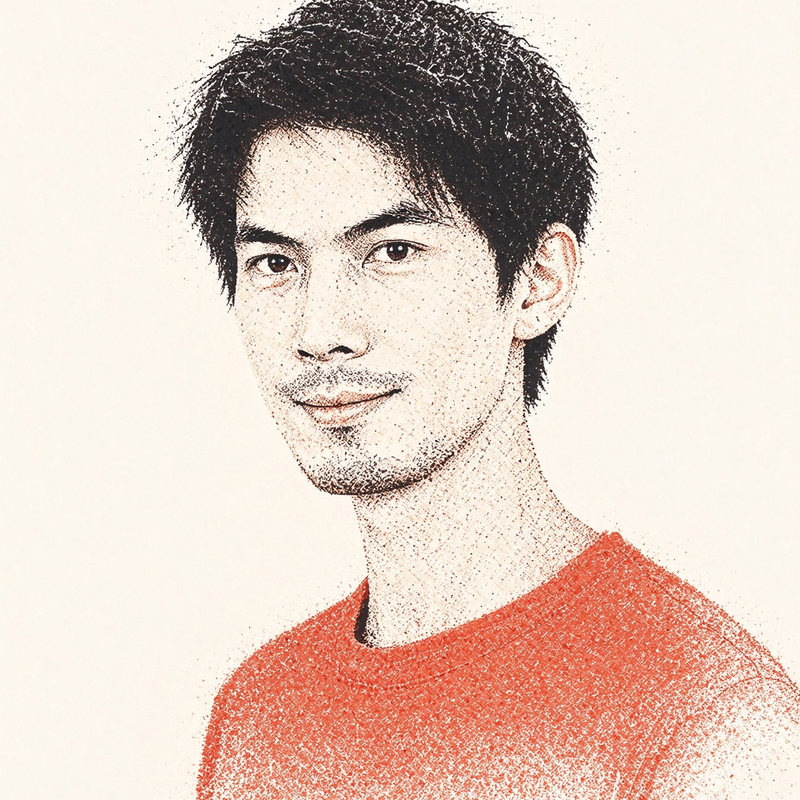
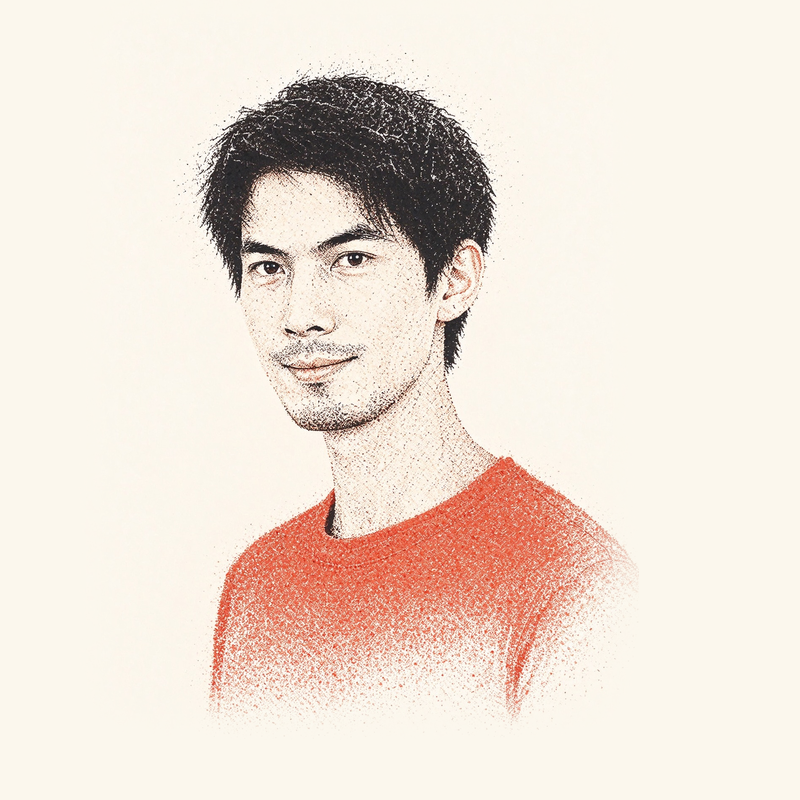
Lucas 改为 SVG 动态艺术字（渐变流动+逐字入场+金色光标）；新头像重新构图：整体人物居中、适当缩小；v=17

diff --git a/index.html b/index.html
@@ -22,7 +22,7 @@
 <link rel="preload" as="image" href="assets/avatar.webp" fetchpriority="high">
 <script>(function(){var t;try{t=localStorage.getItem("theme")}catch(e){}if(t!=="light"&&t!=="dark"){t=window.matchMedia&&matchMedia("(prefers-color-scheme: dark)").matches?"dark":"light"}document.documentElement.dataset.theme=t})();</script>
 <script>(function(){var l;try{l=localStorage.getItem("lang")}catch(e){}if(l!=="zh"&&l!=="en")l="en";document.documentElement.dataset.lang=l})();</script>
-<link rel="stylesheet" href="assets/style.css?v=16">
+<link rel="stylesheet" href="assets/style.css?v=17">
 </head>
 <body class="home">
 
@@ -55,7 +55,7 @@
           <svg class="sparkle sparkle-2" viewBox="0 0 24 24" aria-hidden="true"><path d="M12 0C12.9 6.9 17.1 11.1 24 12 17.1 12.9 12.9 17.1 12 24 11.1 17.1 6.9 12.9 0 12 6.9 11.1 11.1 6.9 12 0Z"/></svg>
           <svg class="sparkle sparkle-3" viewBox="0 0 24 24" aria-hidden="true"><path d="M12 0C12.9 6.9 17.1 11.1 24 12 17.1 12.9 12.9 17.1 12 24 11.1 17.1 6.9 12.9 0 12 6.9 11.1 11.1 6.9 12 0Z"/></svg>
         </figure>
-        <h1>Lucas</h1>
+        <h1 class="lucas-wrap"><svg class="lucas-svg" viewBox="0 0 320 104" role="img" aria-label="Lucas"><defs><linearGradient id="lucasGrad" x1="0" y1="0" x2="1" y2="0"><stop class="gs0" offset="0"/><stop class="gs1" offset="0.55"/><stop class="gs2" offset="1"/><animateTransform attributeName="gradientTransform" type="translate" values="-0.35 0; 0.35 0; -0.35 0" dur="6s" repeatCount="indefinite"/></linearGradient></defs><text class="lucas-text" x="26" y="80"><tspan class="lg d1">L</tspan><tspan class="lg d2">u</tspan><tspan class="lg d3">c</tspan><tspan class="lg d4">a</tspan><tspan class="lg d5">s</tspan><tspan class="lucas-cursor">_</tspan></text></svg></h1>
         <p class="role"><span class="en">Independent Developer</span><span class="zh">独立开发者</span></p>
         <div class="social" aria-label="GitHub, email, WeChat, support">
           <a class="soc" href="https://github.com/yjmm10" target="_blank" rel="noopener" aria-label="GitHub" title="GitHub"><svg viewBox="0 0 16 16" fill="currentColor" aria-hidden="true"><path d="M8 0C3.58 0 0 3.58 0 8c0 3.54 2.29 6.53 5.47 7.59.4.07.55-.17.55-.38 0-.19-.01-.82-.01-1.49-2.01.37-2.53-.49-2.69-.94-.09-.23-.48-.94-.82-1.13-.28-.15-.68-.52-.01-.53.63-.01 1.08.58 1.23.82.72 1.21 1.87.87 2.33.66.07-.52.28-.87.51-1.07-1.78-.2-3.64-.89-3.64-3.95 0-.87.31-1.59.82-2.15-.08-.2-.36-1.02.08-2.12 0 0 .67-.21 2.2.82.64-.18 1.32-.27 2-.27s1.36.09 2 .27c1.53-1.04 2.2-.82 2.2-.82.44 1.1.16 1.92.08 2.12.51.56.82 1.27.82 2.15 0 3.07-1.87 3.75-3.65 3.95.29.25.54.73.54 1.48 0 1.07-.01 1.93-.01 2.2 0 .21.15.46.55.38A8.01 8.01 0 0 0 16 8c0-4.42-3.58-8-8-8Z"/></svg></a>

diff --git a/assets/style.css b/assets/style.css
@@ -210,29 +210,25 @@ body.home section { margin-top: 0; }
 /* 左列：头像 + 基本介绍 */
 .me { display: flex; flex-direction: column; align-items: center; text-align: center; }
 .me .portrait { width: 176px; margin: 0 0 20px; }
-.me h1 {
+/* SVG 动态艺术字：渐变流动 + 逐字入场 + 金色光标 */
+.lucas-svg { display: block; width: 216px; max-width: 72vw; height: auto; overflow: visible; }
+.lucas-text {
   font-family: var(--serif);
   font-weight: 800;
-  font-size: 47px;
-  line-height: 1.12;
-  letter-spacing: .015em;
-  color: var(--ink);
+  font-size: 74px;
+  letter-spacing: .01em;
+  fill: url(#lucasGrad);
 }
-@supports ((-webkit-background-clip: text) or (background-clip: text)) {
-  .me h1 {
-    background: linear-gradient(118deg, var(--ink) 30%, var(--rust) 62%, var(--gold) 92%);
-    -webkit-background-clip: text;
-    background-clip: text;
-    color: transparent;
-  }
-}
-/* 极客感：名字后面一颗呼吸的金色光标 */
-.me h1::after {
-  content: "_";
-  margin-left: 4px;
-  color: var(--gold);
-  animation: blink 1.2s steps(1) infinite;
-}
+.lucas-svg .gs0 { stop-color: var(--ink); }
+.lucas-svg .gs1 { stop-color: var(--rust); }
+.lucas-svg .gs2 { stop-color: var(--gold); }
+.lucas-svg tspan.lg { opacity: 0; animation: lucasIn .55s cubic-bezier(.2,.6,.2,1) forwards; }
+.lucas-svg tspan.d2 { animation-delay: .07s; }
+.lucas-svg tspan.d3 { animation-delay: .14s; }
+.lucas-svg tspan.d4 { animation-delay: .21s; }
+.lucas-svg tspan.d5 { animation-delay: .28s; }
+.lucas-svg .lucas-cursor { fill: var(--gold); animation: blink 1.2s steps(1) infinite; }
+@keyframes lucasIn { from { opacity: 0; transform: translateY(12px); } to { opacity: 1; transform: translateY(0); } }
 @keyframes blink { 50% { opacity: 0; } }
 .me .role { margin-top: 6px; font-size: 17px; }
 .skill-label { margin-top: 24px; font-size: 12.5px; letter-spacing: .18em; color: var(--ink-2); }
@@ -697,7 +693,7 @@ footer .top-btn svg { width: 13px; height: 13px; }
 @media (prefers-reduced-motion: reduce) {
   .reveal { animation: none; opacity: 1; transform: none; }
   .sparkle, .status-dot { animation: none; }
-  .me h1::after { animation: none; }
+  .lucas-svg tspan { animation: none; opacity: 1; }
   .card, .hero-links a, footer a, .nav-links a { transition: none; }
   body { transition: none; }
 }

diff --git a/projects.html b/projects.html
@@ -21,7 +21,7 @@
 <link rel="stylesheet" href="https://cdn.jsdelivr.net/npm/lxgw-wenkai-screen-webfont@1.7.0/style.css">
 <script>(function(){var t;try{t=localStorage.getItem("theme")}catch(e){}if(t!=="light"&&t!=="dark"){t=window.matchMedia&&matchMedia("(prefers-color-scheme: dark)").matches?"dark":"light"}document.documentElement.dataset.theme=t})();</script>
 <script>(function(){var l;try{l=localStorage.getItem("lang")}catch(e){}if(l!=="zh"&&l!=="en")l="en";document.documentElement.dataset.lang=l})();</script>
-<link rel="stylesheet" href="assets/style.css?v=16">
+<link rel="stylesheet" href="assets/style.css?v=17">
 </head>
 <body>
 
